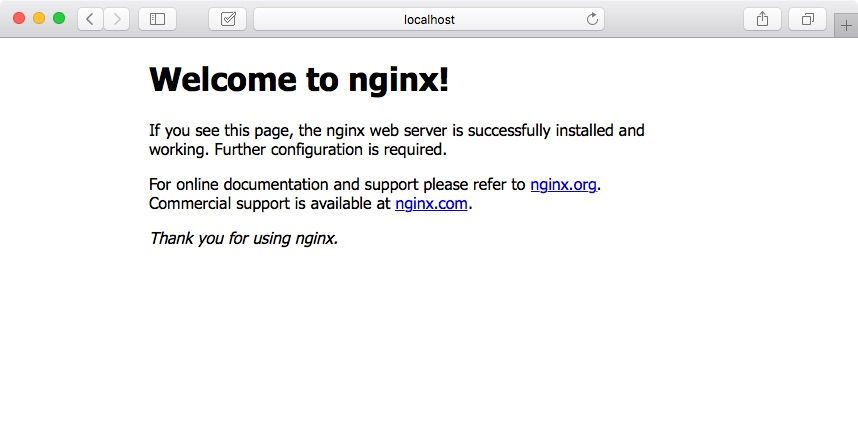
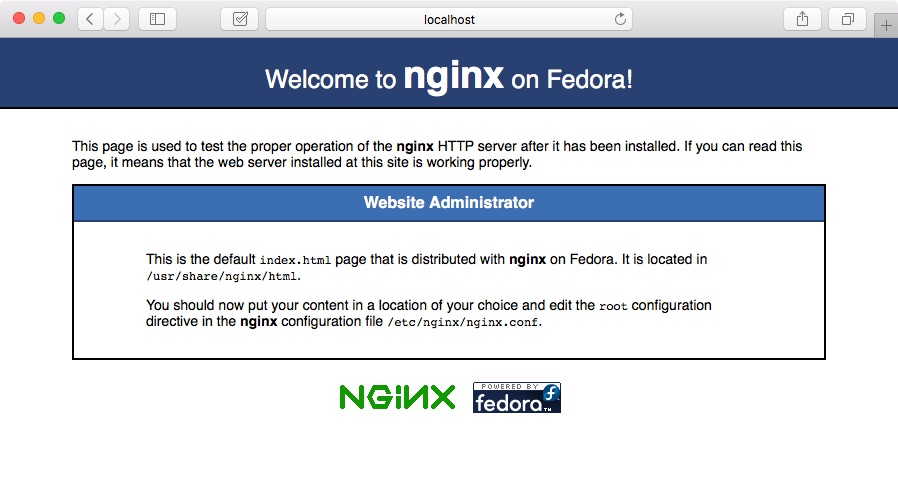
Adds setting up nginx

diff --git a/README.md b/README.md
@@ -199,3 +199,170 @@ Make sure the following tools are installed on your (host) system:
 	     1 file changed, 1 insertion(+)
 		$
 
+## Add nginx
+
+the pacakge nginx is not directly support in CentOS. But adding the
+[Extra Packages for Enterprise Linux (EPEL)](https://fedoraproject.org/wiki/EPEL) repository,
+gives access to nginx package as well.
+See also [How To Install Nginx on CentOS 7](https://www.digitalocean.com/community/tutorials/how-to-install-nginx-on-centos-7).
+
+- Launch and enter CentOS
+
+	    $ vagrant up
+	    $ vagrant ssh
+
+- Add the Extra Packages for Enterprise Linux (EPEL)
+
+		$ sudo yum install epel-release
+
+- Search in yum for nginx
+
+		[vagrant@localhost ~]$ yum search nginx
+		Failed to set locale, defaulting to C
+		Loaded plugins: fastestmirror
+		epel/x86_64/metalink                                                                                 |  24 kB  00:00:00     
+		epel                                                                                                 | 4.3 kB  00:00:00     
+		(1/3): epel/x86_64/updateinfo                                                                        | 691 kB  00:00:00     
+		(2/3): epel/x86_64/group_gz                                                                          | 170 kB  00:00:00     
+		(3/3): epel/x86_64/primary_db                                                                        | 4.4 MB  00:00:01     
+		Loading mirror speeds from cached hostfile
+		 * base: mirror.i3d.net
+		 * epel: mirror.serverbeheren.nl
+		 * extras: centos.mirror.transip.nl
+		 * updates: mirror.i3d.net
+		=============================================== N/S matched: nginx ====================================================
+		collectd-nginx.x86_64 : Nginx plugin for collectd
+		munin-nginx.noarch : Network-wide graphing framework (cgi files for nginx)
+		nginx-all-modules.noarch : A meta package that installs all available Nginx modules
+		nginx-filesystem.noarch : The basic directory layout for the Nginx server
+		nginx-mod-http-geoip.x86_64 : Nginx HTTP geoip module
+		nginx-mod-http-image-filter.x86_64 : Nginx HTTP image filter module
+		nginx-mod-http-perl.x86_64 : Nginx HTTP perl module
+		nginx-mod-http-xslt-filter.x86_64 : Nginx XSLT module
+		nginx-mod-mail.x86_64 : Nginx mail modules
+		nginx-mod-stream.x86_64 : Nginx stream modules
+		owncloud-nginx.noarch : Nginx integration for ownCloud
+		pcp-pmda-nginx.x86_64 : Performance Co-Pilot (PCP) metrics for the Nginx Webserver
+		nginx.x86_64 : A high performance web server and reverse proxy server
+		
+		  Name and summary matches only, use "search all" for everything.
+		[vagrant@localhost ~]$
+
+- Add nginx
+
+		$ sudo yum install -y nginx
+
+- Check if nginx is running
+
+		[vagrant@localhost ~]$ systemctl status nginx
+		● nginx.service - The nginx HTTP and reverse proxy server
+		   Loaded: loaded (/usr/lib/systemd/system/nginx.service; disabled; vendor preset: disabled)
+		   Active: inactive (dead)
+		[vagrant@localhost ~]$
+
+- Start nginx and check status again
+
+		[vagrant@localhost ~]$ sudo systemctl start nginx
+		[vagrant@localhost ~]$ systemctl status nginx
+		● nginx.service - The nginx HTTP and reverse proxy server
+		   Loaded: loaded (/usr/lib/systemd/system/nginx.service; disabled; vendor preset: disabled)
+		   Active: active (running) since Fri 2016-12-16 21:49:38 UTC; 4s ago
+		  Process: 11829 ExecStart=/usr/sbin/nginx (code=exited, status=0/SUCCESS)
+		  Process: 11827 ExecStartPre=/usr/sbin/nginx -t (code=exited, status=0/SUCCESS)
+		  Process: 11825 ExecStartPre=/usr/bin/rm -f /run/nginx.pid (code=exited, status=0/SUCCESS)
+		 Main PID: 11832 (nginx)
+		   CGroup: /system.slice/nginx.service
+		           ├─11832 nginx: master process /usr/sbin/nginx
+		           └─11833 nginx: worker process
+		[vagrant@localhost ~]$
+
+	Check that nginx is up
+	
+		[vagrant@localhost ~]$ curl http://localhost/
+		<!DOCTYPE html PUBLIC "-//W3C//DTD XHTML 1.1//EN" "http://www.w3.org/TR/xhtml11/DTD/xhtml11.dtd">
+		
+		<html xmlns="http://www.w3.org/1999/xhtml" xml:lang="en">
+		    <head>
+		        <title>Test Page for the Nginx HTTP Server on Fedora</title>
+		        
+		        ...
+		        
+		                <a href="http://fedoraproject.org/"><img 
+		                    src="poweredby.png" 
+		                    alt="[ Powered by Fedora ]" 
+		                    width="88" height="31" /></a>
+		            </div>
+		        </div>
+		    </body>
+		</html>
+		[vagrant@localhost ~]$
+
+- **Guest** Stop the guest-os
+
+	Leave the guest-os and stop the guest-os
+
+		[vagrant@localhost ~]$ exit
+		logout
+		Connection to 127.0.0.1 closed.
+		Tjeerds-MacBook-Pro:vagrant-nginx tjeerd$ vagrant halt
+		==> default: Attempting graceful shutdown of VM...
+		$
+
+- Forward the guest port `80` to the host `8080`
+	
+	Edit the file `Vagrantfile` and remove the hash `#`, from the line:
+	
+		config.vm.network "forwarded_port", guest: 80, host: 8080
+	
+	Make sure there is nothing already running on that port `8080`, like Tomcat, Jetty or other things.
+	Check it with `curl`, it should fail to connect.
+
+		$ curl localhost:8080
+		curl: (7) Failed to connect to localhost port 8080: Connection refused
+		$
+		
+	Start CentOS again.
+	
+		$ vagrant up
+		Bringing machine 'default' up with 'virtualbox' provider...
+		==> default: Checking if box 'centos/7' is up to date...
+		==> default: A newer version of the box 'centos/7' is available! You currently
+		==> default: have version '1610.01'. The latest is version '1611.01'. Run
+		==> default: `vagrant box update` to update.
+		==> default: Clearing any previously set forwarded ports...
+		==> default: Fixed port collision for 22 => 2222. Now on port 2200.
+		==> default: Clearing any previously set network interfaces...
+		==> default: Preparing network interfaces based on configuration...
+		    default: Adapter 1: nat
+		==> default: Forwarding ports...
+		    default: 80 (guest) => 8080 (host) (adapter 1)
+		    default: 22 (guest) => 2200 (host) (adapter 1)
+		==> default: Booting VM...
+		==> default: Waiting for machine to boot. This may take a few minutes...
+		    default: SSH address: 127.0.0.1:2200
+		    default: SSH username: vagrant
+		    default: SSH auth method: private key
+		==> default: Machine booted and ready!
+		==> default: Checking for guest additions in VM...
+		    default: No guest additions were detected on the base box for this VM! Guest
+		    default: additions are required for forwarded ports, shared folders, host only
+		    default: networking, and more. If SSH fails on this machine, please install
+		    default: the guest additions and repackage the box to continue.
+		    default: 
+		    default: This is not an error message; everything may continue to work properly,
+		    default: in which case you may ignore this message.
+		==> default: Rsyncing folder: /Users/tjeerd/git/vagrant/vagrant-nginx/ => /vagrant
+		==> default: Machine already provisioned. Run `vagrant provision` or use the `--provision`
+		==> default: flag to force provisioning. Provisioners marked to run always will still run.
+		$
+
+	Check if the port forwarding works.
+	
+		$ curl localhost:8080
+	
+	Double check! Open a browser and go to [http://localhost:8080/](http://localhost:8080/) 	
+	
+	It should show the default opening page.
+	
+	<img  src="https://raw.githubusercontent.com/verhagen/vagrant-nginx/master/images/nginx-welcome-00.jpg" />
+
